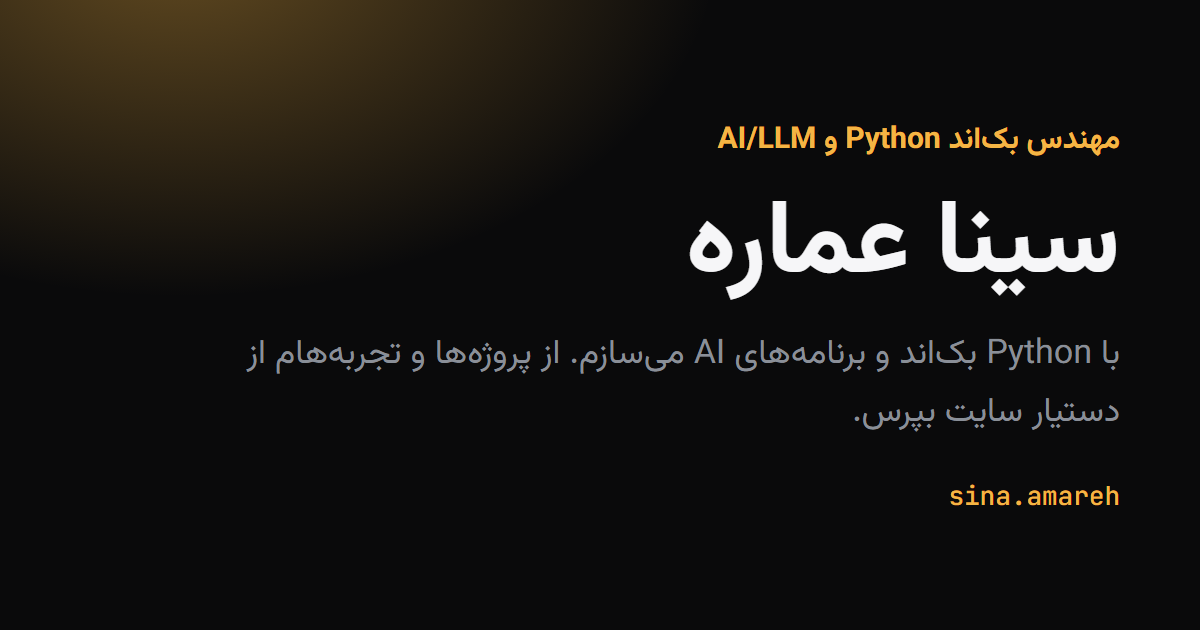
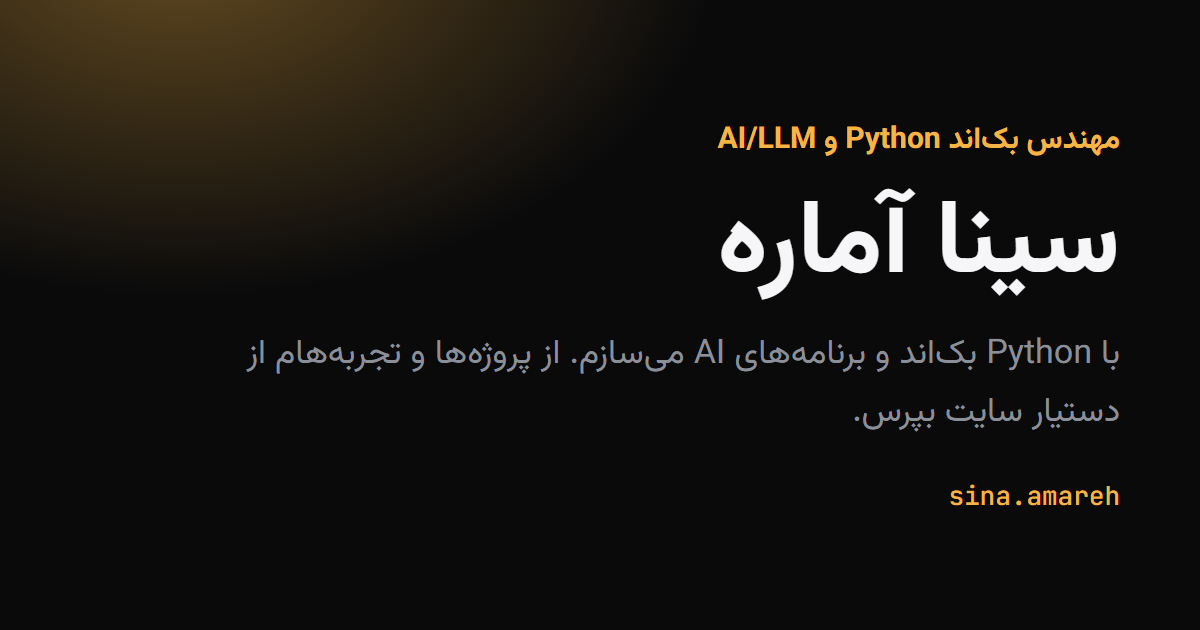
fix(i18n): Sina's Persian name is «سینا آماره», not «سینا عماره»
The Persian spelling was guessed from the Latin and the owner corrected it.
Fixes /fa titles and previews, the footer, the home label, the chat's name
reply and the Persian OG card (regenerated with scripts/og-fa.mjs).

Changed region(s): [[0.555, 0.3016, 0.7708, 0.4825]]

diff --git a/lib/page-copy.ts b/lib/page-copy.ts
@@ -215,12 +215,12 @@ export const pageCopy = {
     home: {
       title: `${site.localName.fa} — توسعهدهندهٔ بکاند و AI`,
       description:
-        "من سینا عمارهام؛ با Python بکاند و برنامههای AI میسازم. از پروژهها و تجربههام از دستیار سایت بپرس.",
+        "من سینا آمارهام؛ با Python بکاند و برنامههای AI میسازم. از پروژهها و تجربههام از دستیار سایت بپرس.",
     },
     projects: {
       title: "پروژهها",
       description:
-        "پروژههای متنباز و دو ایجنت کاری سینا عماره؛ با توضیح مسئله، مسیر کار و تصمیمهای فنی.",
+        "پروژههای متنباز و دو ایجنت کاری سینا آماره؛ با توضیح مسئله، مسیر کار و تصمیمهای فنی.",
     },
     privacy: {
       meta: "این سایت چه اطلاعاتی از بازدیدها نگه میداره و تا کی؟",

diff --git a/tests/unit/seo.test.ts b/tests/unit/seo.test.ts
@@ -25,15 +25,15 @@ describe("pageMetadata", () => {
     const m = pageMetadata("fa", "/projects/scrapegpt", copy);
     const og = m.openGraph as Record<string, unknown>;
     expect(og.url).toBe("/fa/projects/scrapegpt");
-    expect(og.title).toBe("ScrapeGPT — سینا عماره");
-    expect(og.siteName).toBe("سینا عماره");
+    expect(og.title).toBe("ScrapeGPT — سینا آماره");
+    expect(og.siteName).toBe("سینا آماره");
     expect(og.locale).toBe("fa_IR");
     expect(og.alternateLocale).toEqual(["en_US"]);
     expect(og.images).toEqual([expect.objectContaining({ url: "/fa/opengraph-image" })]);
     const tw = m.twitter as Record<string, unknown>;
     expect(tw.title).toBe(og.title);
     expect(tw.images).toEqual(og.images);
-    expect(m.title).toEqual({ absolute: "ScrapeGPT — سینا عماره" });
+    expect(m.title).toEqual({ absolute: "ScrapeGPT — سینا آماره" });
   });
 
   it("names Sina in Latin on English pages", () => {

diff --git a/tests/e2e/i18n.spec.ts b/tests/e2e/i18n.spec.ts
@@ -26,9 +26,9 @@ test("each page declares its own canonical, hreflang set, and link preview", asy
   expect(await attr(page, 'meta[property="og:locale"]')).toBe("fa_IR");
   expect(await attr(page, 'meta[property="og:image"]')).toMatch(/\/fa\/opengraph-image$/);
   // Persian pages write the name in Persian; the Latin one stays the logo.
-  await expect(page).toHaveTitle("ScrapeGPT — سینا عماره");
-  expect(await attr(page, 'meta[name="twitter:title"]')).toBe("ScrapeGPT — سینا عماره");
-  await expect(page.locator("footer")).toContainText(/© [۰-۹]{4} سینا عماره/);
+  await expect(page).toHaveTitle("ScrapeGPT — سینا آماره");
+  expect(await attr(page, 'meta[name="twitter:title"]')).toBe("ScrapeGPT — سینا آماره");
+  await expect(page.locator("footer")).toContainText(/© [۰-۹]{4} سینا آماره/);
 });
 
 test("the language toggle keeps the section, remembers the choice, and Back returns", async ({

diff --git a/lib/rag/intent.ts b/lib/rag/intent.ts
@@ -567,7 +567,7 @@ const REPLIES: Record<Reply, Record<Lang, readonly string[]>> = {
       "I go by Sina here, the AI edition. The original built me to talk about his work, so fire away.",
     ],
     fa: [
-      "اسمم؟ نسخهٔ AI سینا عمارهام 😄 خود سینا منو ساخته. از پروژهها یا تجربههام بپرس.",
+      "اسمم؟ نسخهٔ AI سینا آمارهام 😄 خود سینا منو ساخته. از پروژهها یا تجربههام بپرس.",
       "اینجا منو سینا صدا کن، البته نسخهٔ AIش 😄 خود سینا منو ساخته که دربارهٔ کارهاش حرف بزنم. بپرس!",
     ],
   },

diff --git a/lib/site.ts b/lib/site.ts
@@ -5,7 +5,7 @@ export const site = {
   name: "Sina Amareh",
   /** The name in each page's language: tab titles, link previews, the footer.
    *  The Latin name stays the visual brand (nav logo, hero chip). */
-  localName: { en: "Sina Amareh", fa: "سینا عماره" },
+  localName: { en: "Sina Amareh", fa: "سینا آماره" },
   firstName: "Sina",
   role: "Software Developer · Backend & AI",
   tagline: "Python backend + AI/LLM engineer",

diff --git a/lib/dictionary.ts b/lib/dictionary.ts
@@ -185,7 +185,7 @@ export const dict = {
       resume: "رزومه",
       command: "دسترسی سریع",
       menu: "منو",
-      homeLabel: "سینا عماره — خانه",
+      homeLabel: "سینا آماره — خانه",
       openMenu: "باز کردن منو",
       closeMenu: "بستن منو",
       language: "زبان سایت",
